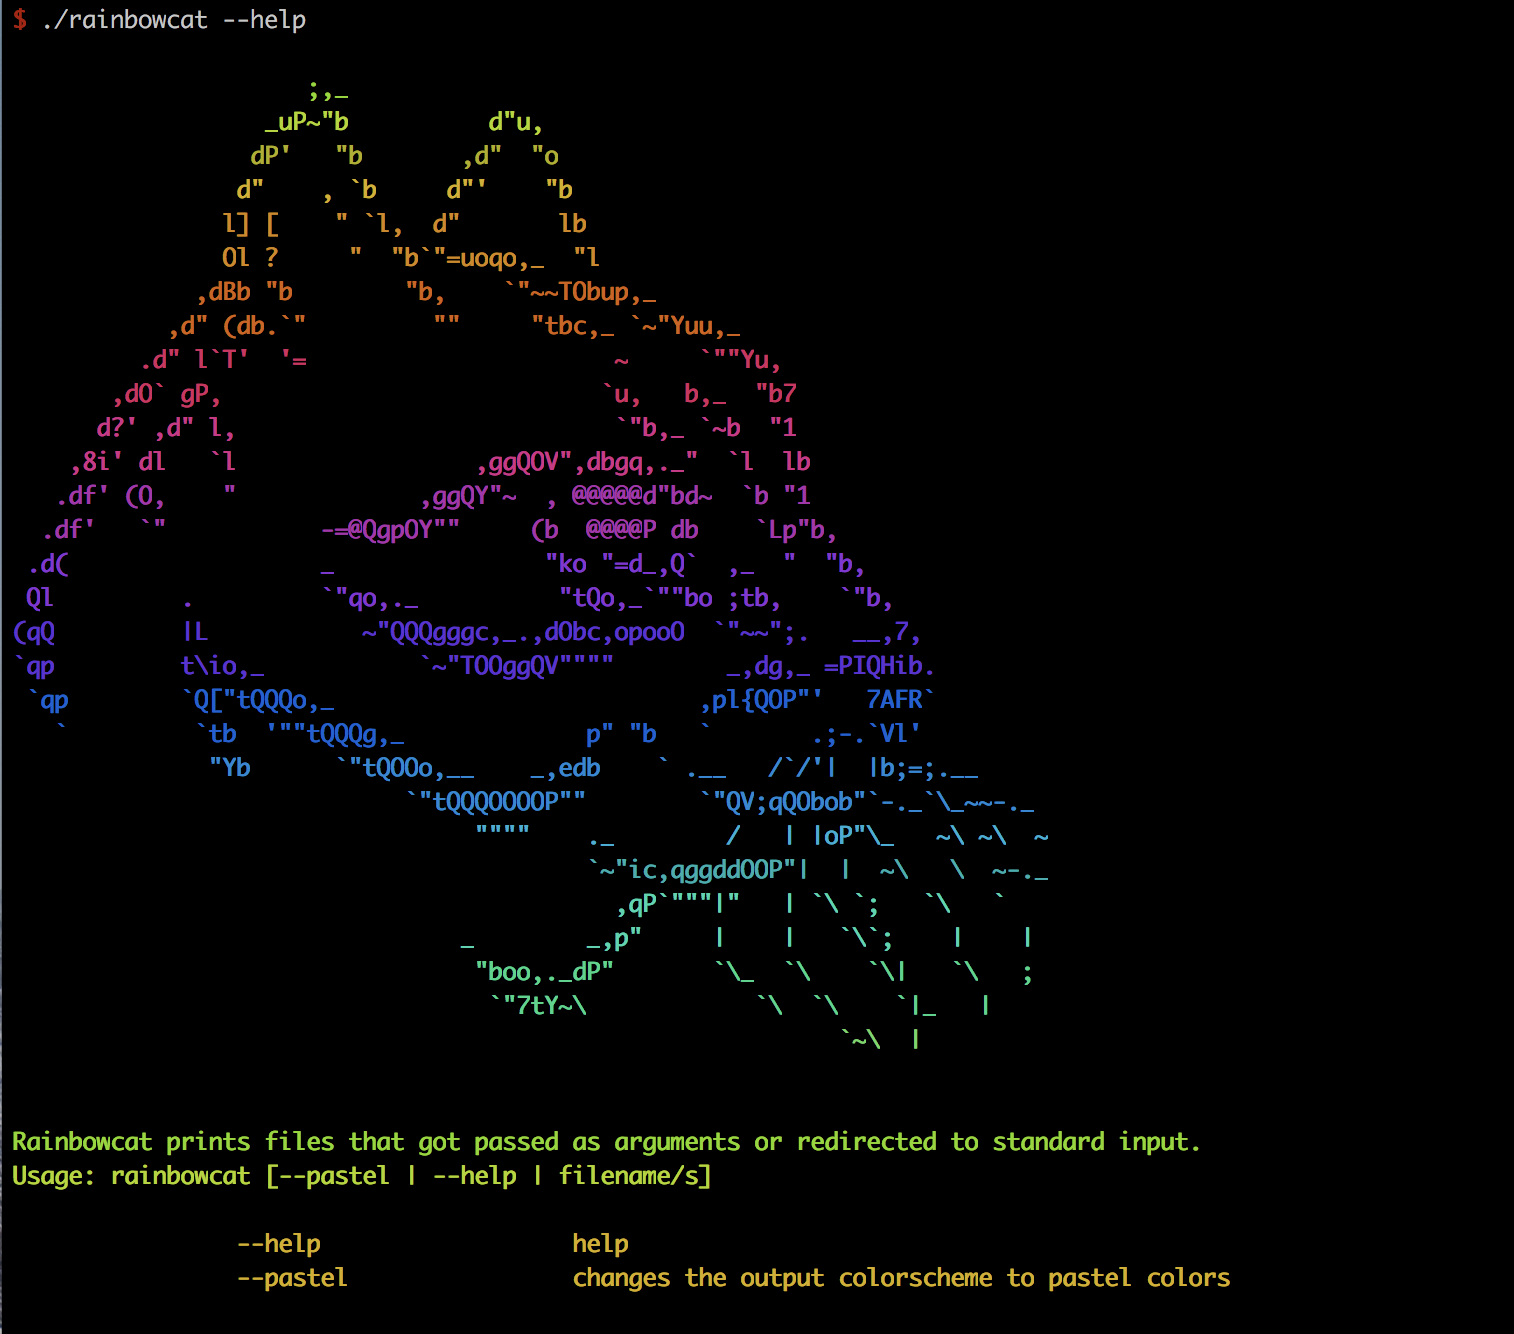
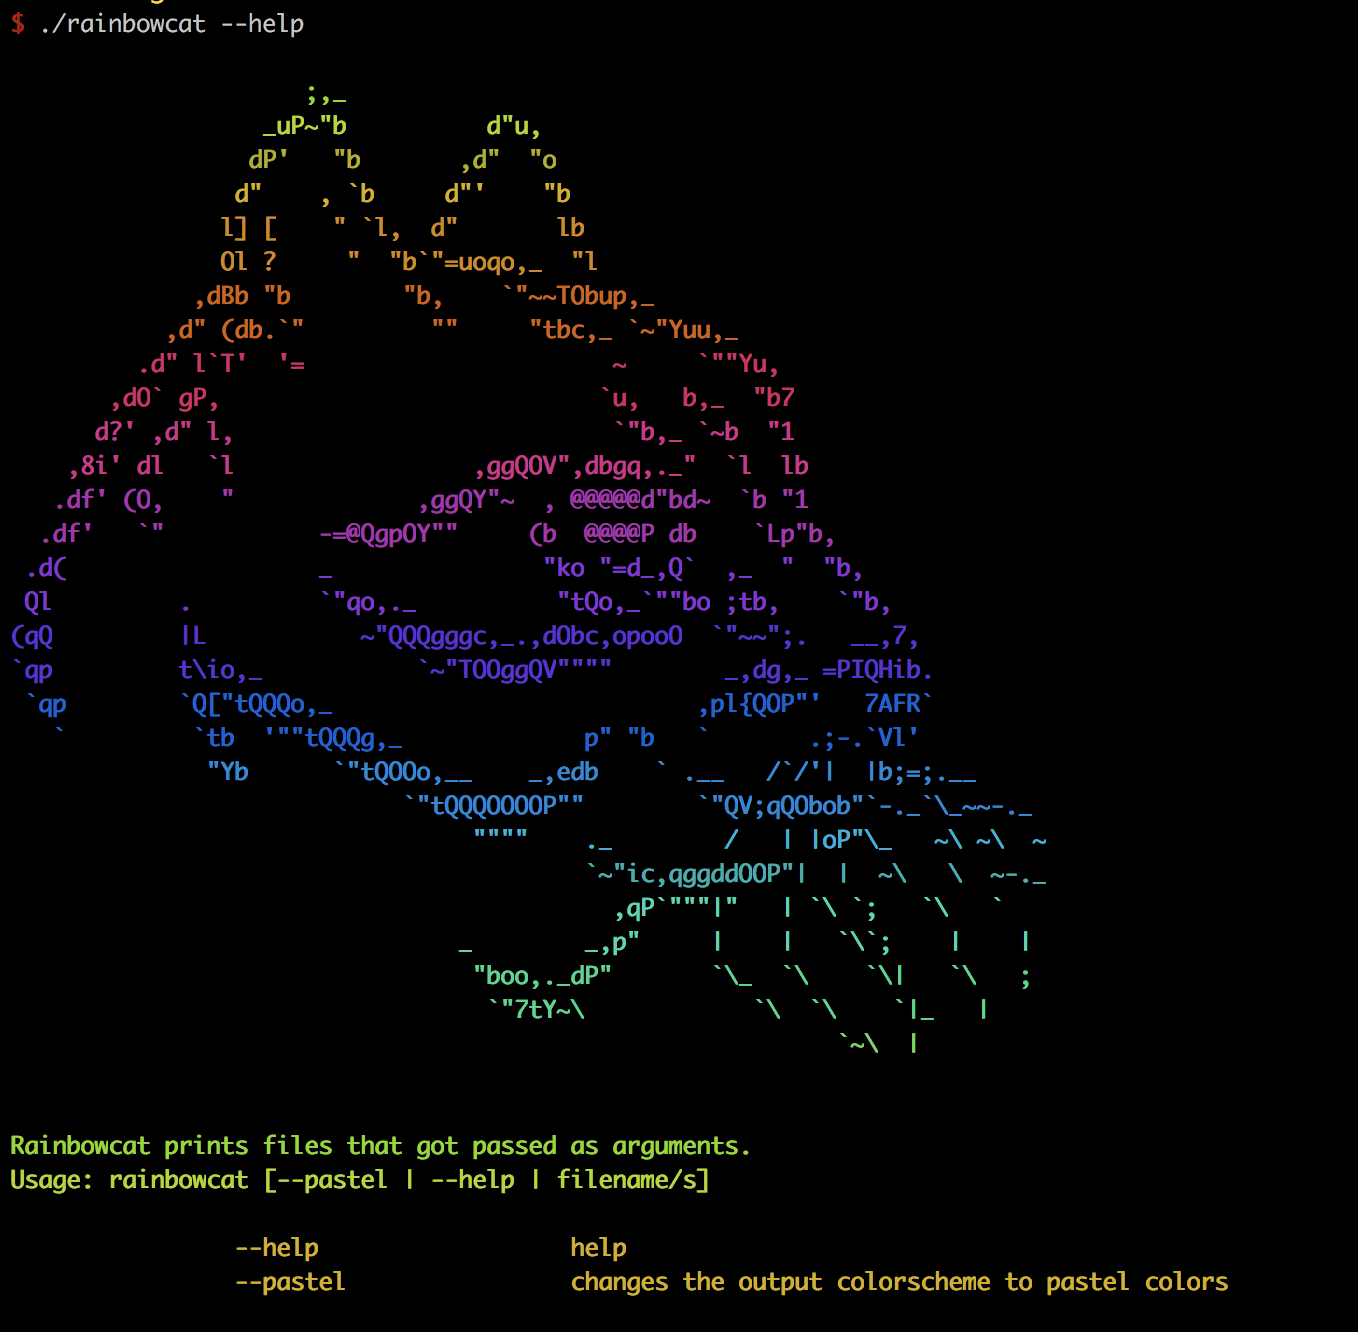
no more segfault

diff --git a/srcs/rainbowcat.c b/srcs/rainbowcat.c
@@ -56,6 +56,8 @@ int		cat(FILE *file)
 	sin_wave = get_rainbow();
 	i = 0;
 	up = 1;
+	size = 10;
+	line = (char *)malloc(sizeof(char) * (size + 1));
 	while ((reading = getline(&line, &size, file)) != -1)
 	{
 		line[reading] = '\0';
@@ -92,30 +94,28 @@ int		check_colorscheme(char *colorscheme)
 
 int		main(int argc, char **argv)
 {
-	char	*filename;
 	FILE	*file;
 
 	argv[argc] = NULL;
-	if (argc < 2)
-		file = stdin;
-	for (int i = 1; argv[i]; i++)
+	for (int i = 1; i < argc; i++)
 	{
-		if (check_colorscheme(argv[1]))
+		if (check_colorscheme(argv[i]))
 			i++;
+		if (argv[i] == NULL)
+			fprintf(stderr, "usage: ./rainbowcat [--pastel | --help | file/s]");
 		if (strcmp(argv[i], "--help") == 0)
 			argv[i] = ".help";
-		filename = argv[i];
-		if ((file = fopen(filename, "r")) == NULL)
+		if ((file = fopen(argv[i], "r")) == NULL)
 		{
-			perror("rainbowcat: ");
-			return (-1);
+			perror(argv[i]);
+			continue;
 		}
 		cat(file);
 		argc > 2 && i < argc - 1 ? printf("\n") : 0;
 		if (fclose(file) == -1)
 		{
-			perror("rainbowcat: ");
-			return (-1);
+			perror(argv[i]);
+			continue;
 		}
 	}
 	return (0);

diff --git a/README.md b/README.md
@@ -1,7 +1,7 @@
 # Rainbowcat
 ![rainbowcat screenshot](https://github.com/cmicheledelaney/rainbowcat/blob/master/.screenshot_rainbowcat.png)
 
-My own, more colorful version of the cat command. Prints files passed as argument or redirected to standard input to standard output in rainbow colors.
+My own, simple, more colorful version of the cat command. Prints files passed as argument to standard output in rainbow colors.
 You can choose between two settings, the default one and the pastel one.
 
 Usage: ./rainbowcat [--pastel | --help | filename/s]
